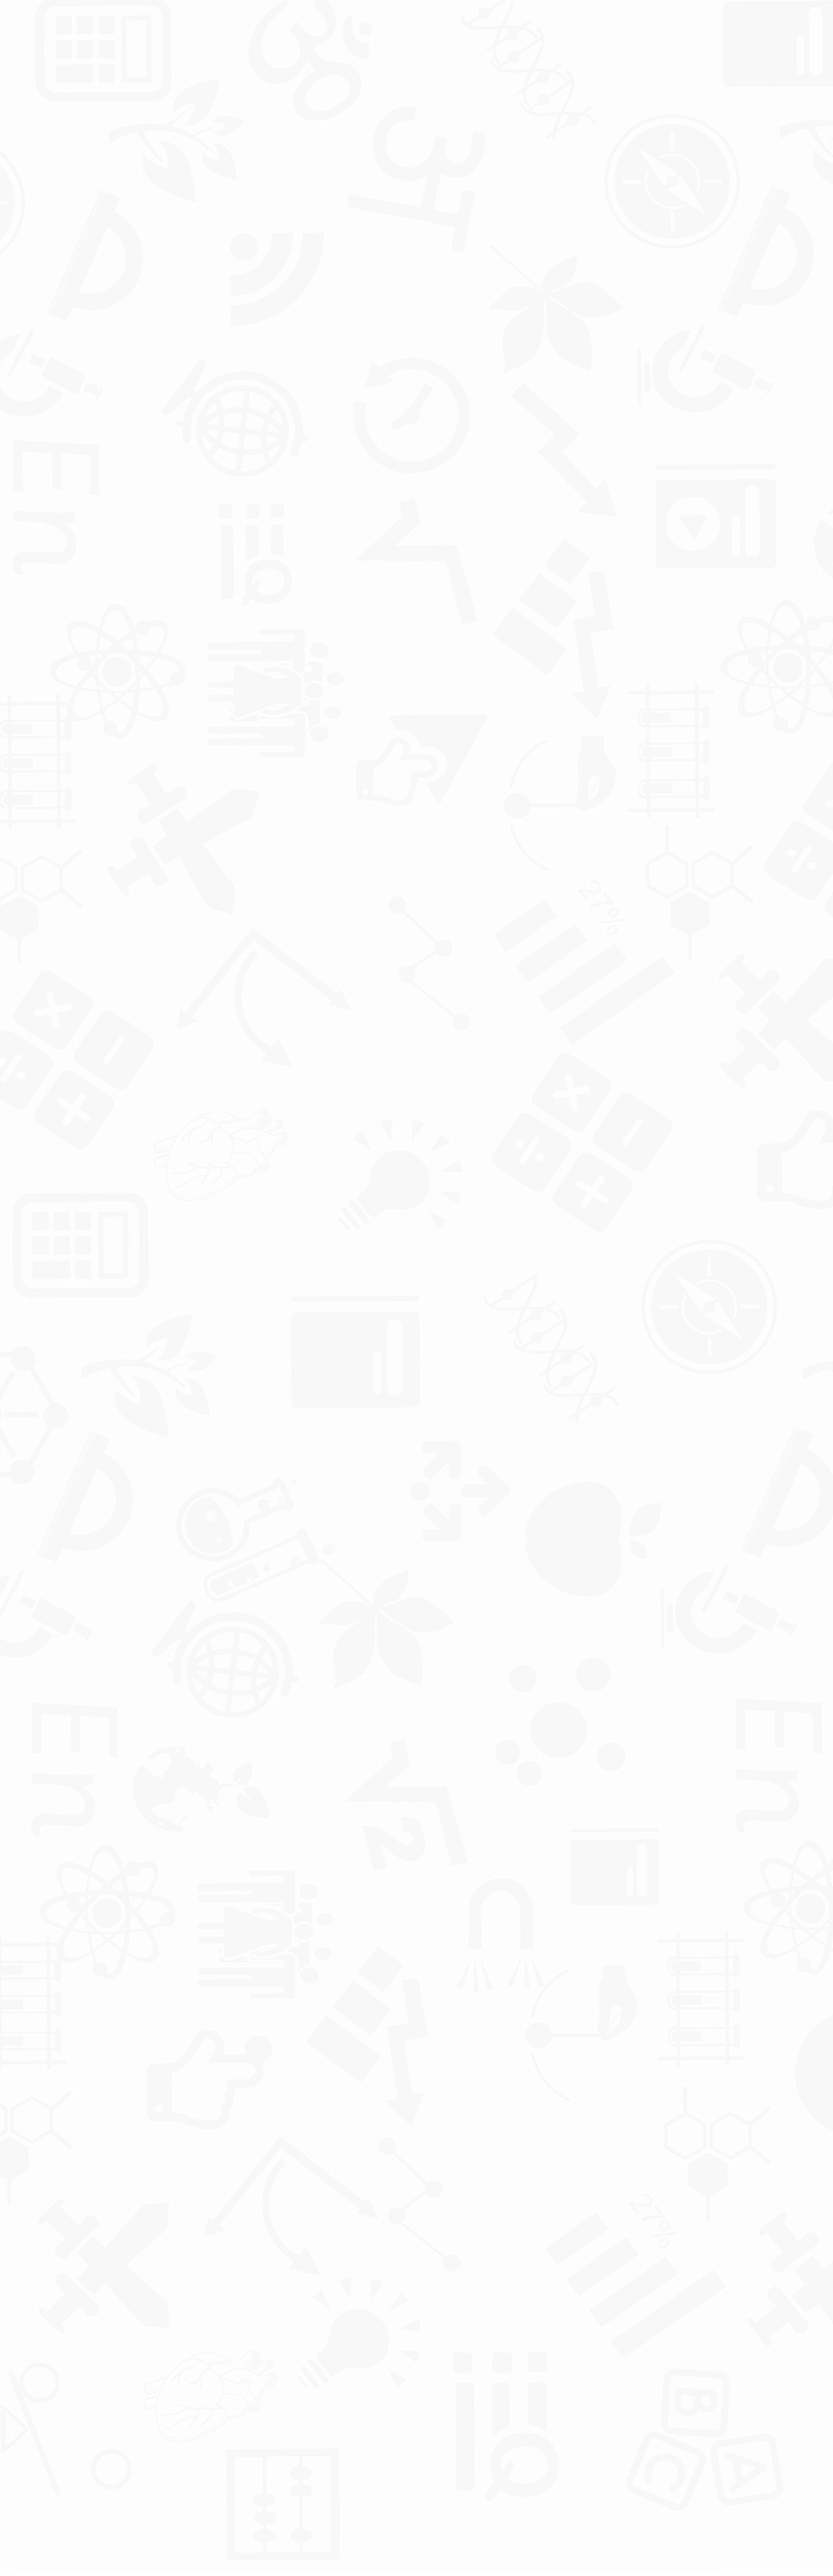
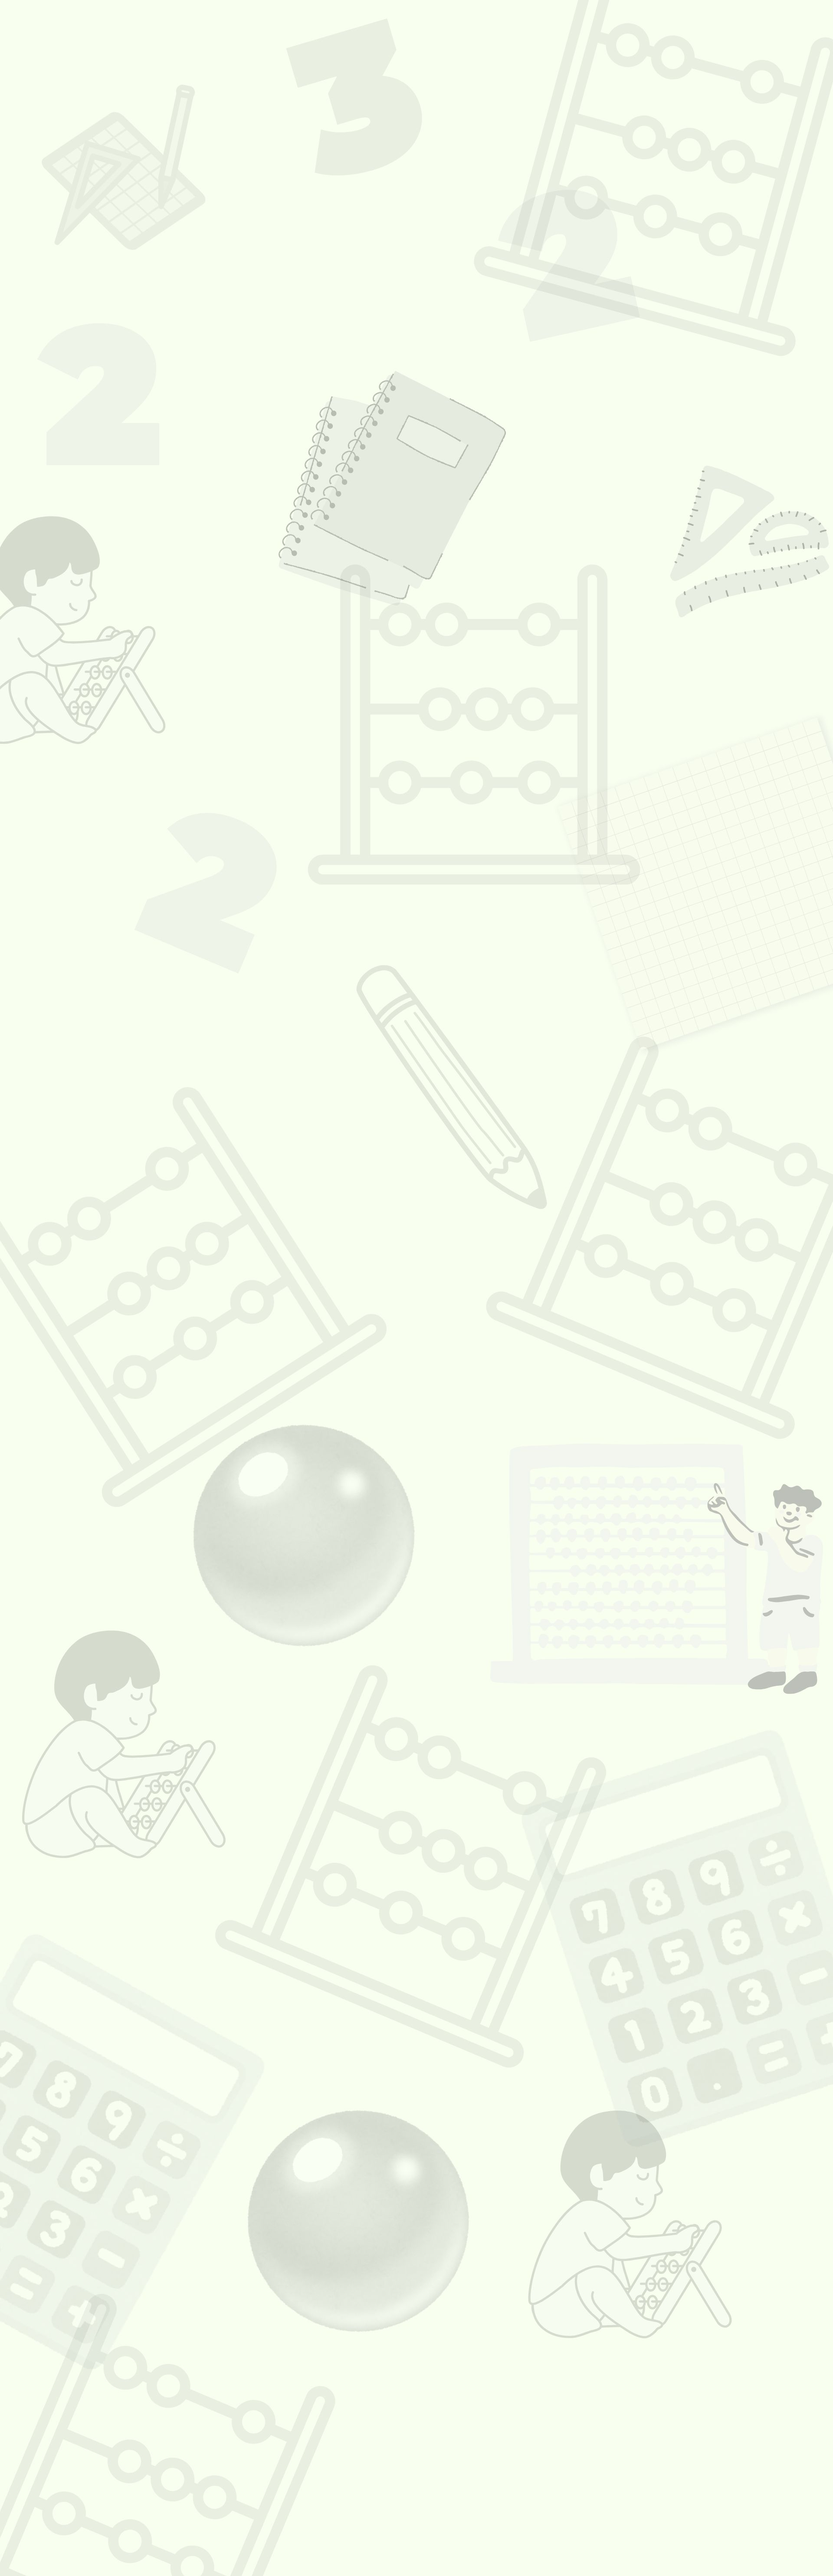
cambioFondoSuma

diff --git a/talleres/sumasyrestas.html b/talleres/sumasyrestas.html
@@ -126,7 +126,7 @@
         El taller se dicta en San Fernando.
       </p>
       <div class="about_img-box ">
-        <img src="images/suma.gif" alt="" class="img-fluid w-100">
+        <img src="images/suma.png" alt="" class="img-fluid w-100">
       </div>
       <!-- <div class="d-flex justify-content-center mt-5">
         <a href="" class="call_to-btn  ">
